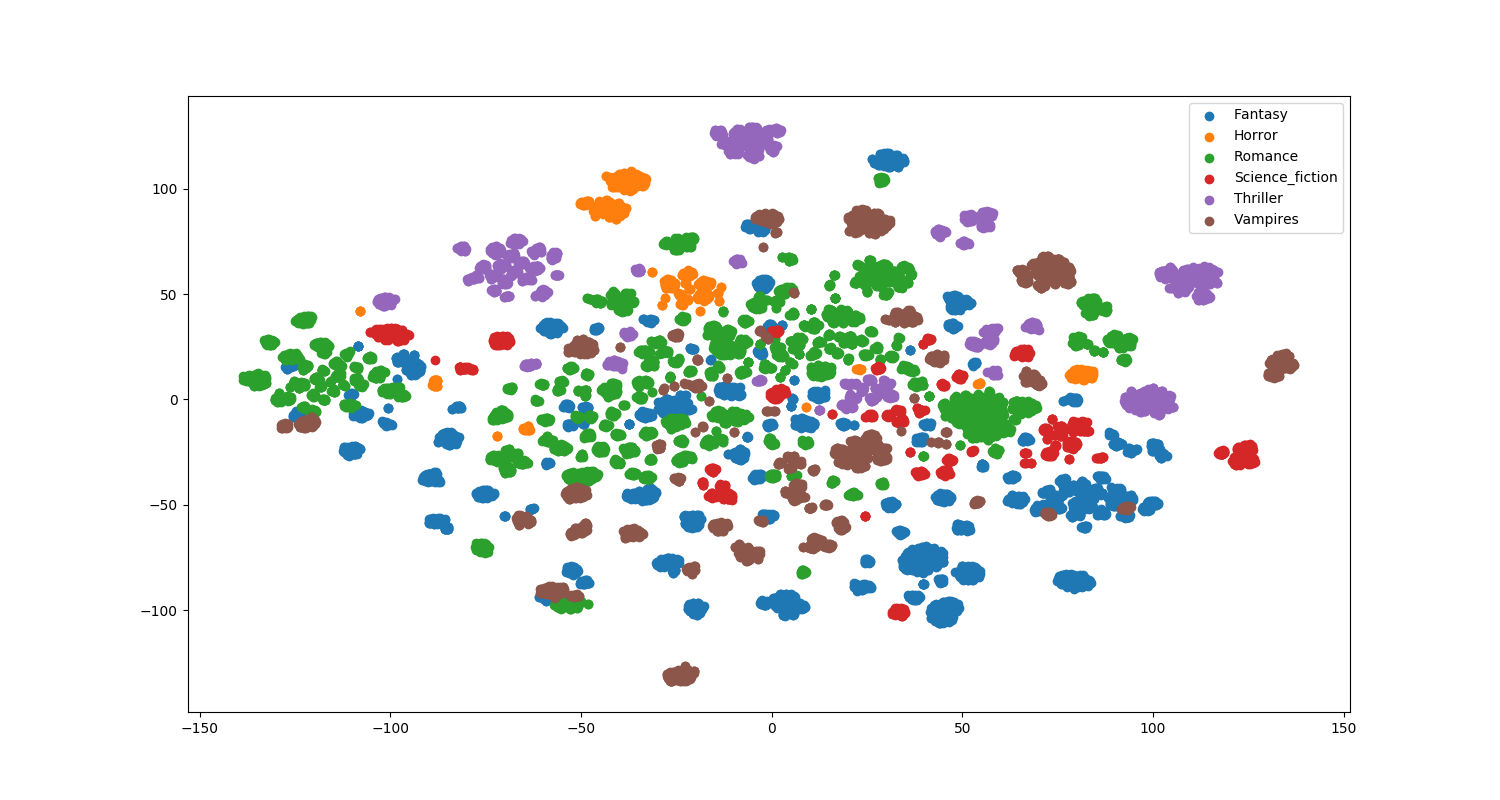
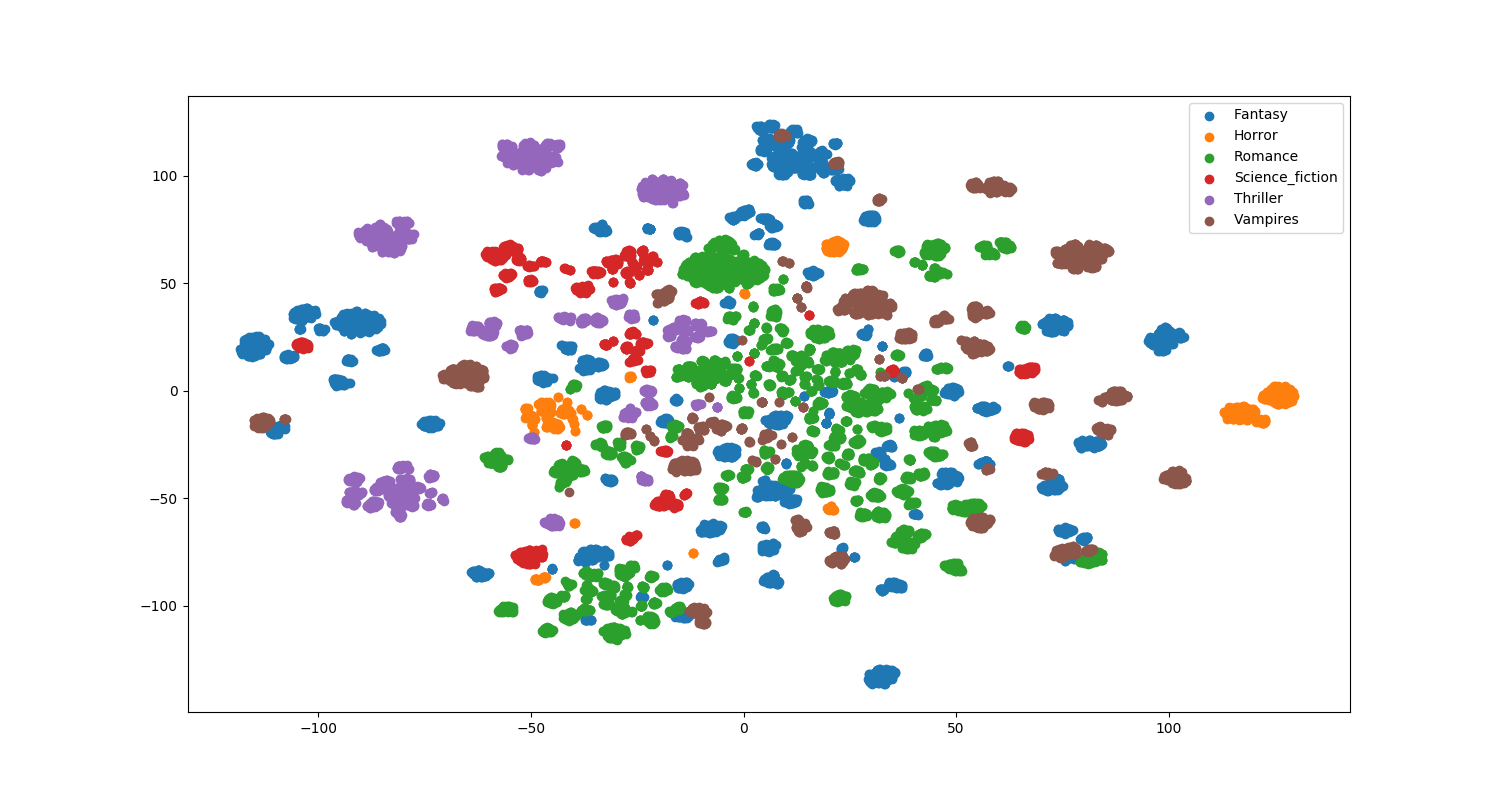
normalize par vecs

diff --git a/scripts/par2vec_normalize.py b/scripts/par2vec_normalize.py
@@ -1,0 +1,55 @@
+import numpy as np
+from gensim.models.doc2vec import Doc2Vec
+import glob
+from scipy import spatial
+
+
+vec_names = np.load('../models/vec_names_20k.npy').tolist()
+book_filenames = sorted(glob.glob('../data/BookCorpus/*/*txt'))
+
+load = False
+
+if not load:
+    model = Doc2Vec.load('../models/par2vec_300_20k.doc2vec')
+
+    norm_vecs = []
+
+    for b in book_filenames:
+        b = b[0:-4]
+        b_vecs = []
+        for vec_name in vec_names:
+            if b in vec_name:
+                b_vecs.append(model[vec_names.index(vec_name)])
+
+        b_mean = np.mean(b_vecs, axis=0)
+        b_var = np.var(b_vecs, axis=0)
+        for vec_name in vec_names:
+            if b in vec_name:
+                #print(vec_name)
+                norm_vecs.append((model[vec_names.index(vec_name)] - b_mean) / b_var)
+
+    np.save('../models/norm_par_vecs.npy', norm_vecs)
+else:
+    norm_vecs = np.load('../models/norm_par_vecs.npy')
+
+#model = Doc2Vec.load('../models/par2vec_300_20k.doc2vec')
+#norm_vecs = model.docvecs.vectors_docs
+
+tree = spatial.KDTree(norm_vecs)
+
+#b = '../data/BookCorpus/Thriller/James_Bond-1'
+#b = '../data/BookCorpus/Thriller/Da_Vinci_Code'
+#b = '../data/BookCorpus/Romance/Attachments'
+#b = '../data/BookCorpus/Fantasy/Mistborn-1'
+b = '../data/BookCorpus/Science_fiction/Asimov47'
+
+
+p = 1
+
+distances, closest = tree.query(norm_vecs[vec_names.index(b + '_par_' + str(p))], k= 10)
+
+i = 0
+for c in closest:
+    print(vec_names[c])
+    print(distances[i])
+    i += 1

diff --git a/scripts/par2vec_sample.py b/scripts/par2vec_sample.py
@@ -1,8 +1,27 @@
 import numpy as np
 from gensim.models.doc2vec import Doc2Vec
+import glob
+
 
 vec_names = np.load('../models/vec_names_20k.npy').tolist()
+book_filenames = sorted(glob.glob('../data/BookCorpus/*/*txt'))
 
 model = Doc2Vec.load('../models/par2vec_300_20k.doc2vec')
 
-print(model.docvecs.most_similar(vec_names.index("../data/Subset/Fantasy/Ace_in_the_Hole_par_39")))
+#b = '../data/BookCorpus/Fantasy/The_Hobbit'
+#b = '../data/BookCorpus/Thriller/Da_Vinci_Code'
+b = '../data/BookCorpus/Horror/Bullet'
+
+print(model.docvecs.most_similar(positive = [model[vec_names.index(b + '_par_1')]]))
+
+'''
+b_vecs = []
+for vec_name in vec_names:
+    if b in vec_name:
+        b_vecs.append(model[vec_names.index(vec_name)])
+
+b_mean = np.mean(b_vecs, axis=0)
+
+#substracting mean of paragraphs to a paragraph
+print(model.docvecs.most_similar(positive = [model[vec_names.index(b + '_par_30')]], negative = [b_mean],topn=10))
+'''

diff --git a/scripts/B2P2VModel.py b/scripts/B2P2VModel.py
@@ -124,14 +124,14 @@ if __name__ == '__main__':
 
     classifier = tf.estimator.Estimator(
         model_fn=b2p2vmodel.model_fn,
-        model_dir="../models/b2p2v_1",
+        model_dir="../models/b2p2v",
         config=estimator_config,
         params={})
 
-    train = False
+    train = True
 
     if train:
-        epochs = 2000
+        epochs = 5000
         for ep in range(epochs):
             classifier.train(input_fn=b2p2vmodel.input_fn)
     else:

diff --git a/scripts/b2p2v_sample.py b/scripts/b2p2v_sample.py
@@ -6,7 +6,7 @@ book_filenames1 = sorted(glob.glob('../data/BookCorpus/*/*txt'))
 
 model = Doc2Vec.load('../models/book2vec_300.doc2vec')
 
-book_vecs = np.load('../models/b2p2v_book_vecs.npy')
+book_vecs = np.load('../models/b2p2v_book_vecs_c.npy')
 book_filenames2 = np.load('../models/b2p2v_book_filenames.npy')
 
 print(book_filenames1[0])

diff --git a/scripts/par2vec.py b/scripts/par2vec.py
@@ -7,7 +7,7 @@ import numpy as np
 print("Searching for books.")
 book_filenames = sorted(glob.glob('../data/BookCorpus/*/*.txt'))
 
-par_length = 50000
+par_length = 20000
 
 paragraph_corpus = []
 vec_names = []

diff --git a/scripts/b2p2v_scatter.py b/scripts/b2p2v_scatter.py
@@ -31,4 +31,4 @@ for g in range(len(genre_names)):
 
 plt.legend()
 
-plt.savefig('../figures/cluster_2D_b2v2p_'+str(vec_size)+'.png')
+plt.savefig('../figures/cluster_2D_b2v2p_3_'+str(vec_size)+'.png')
